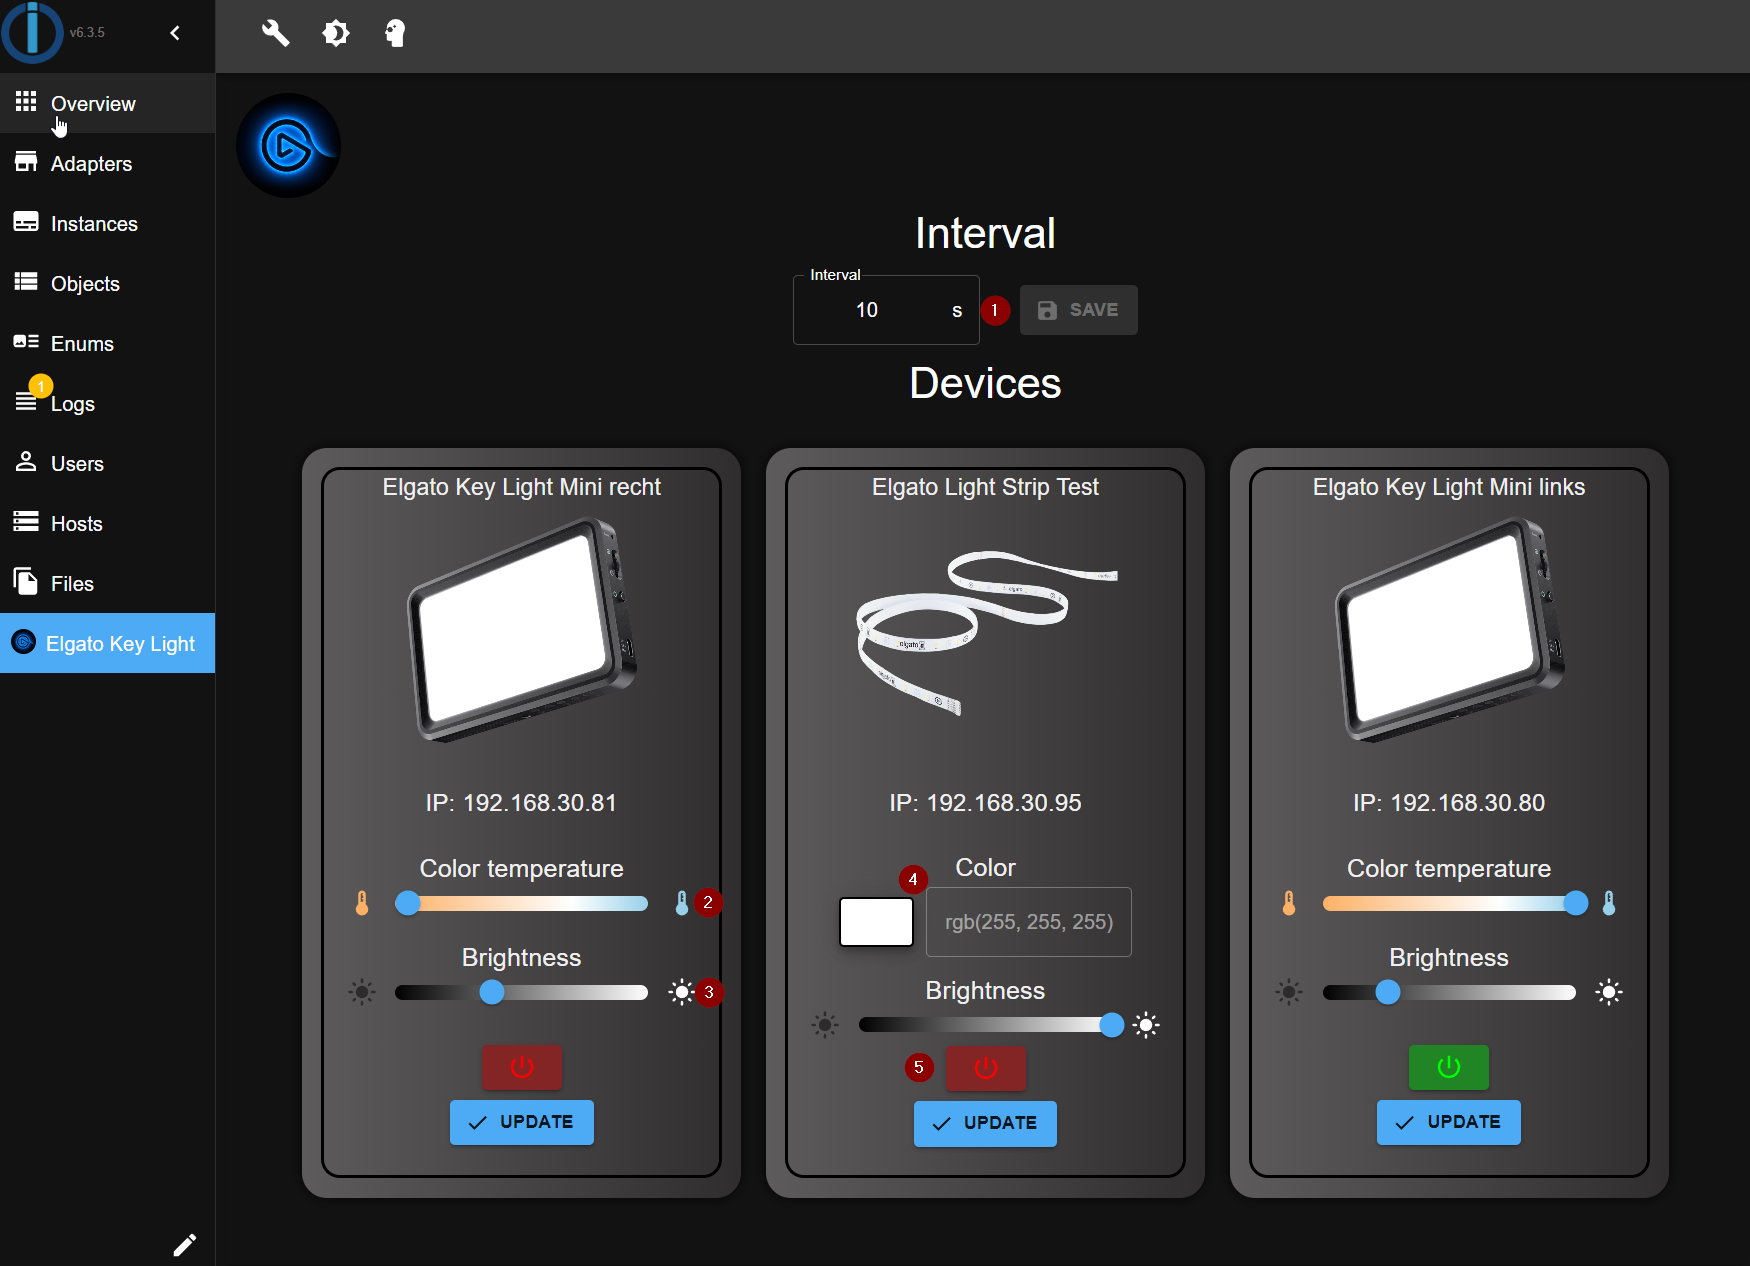
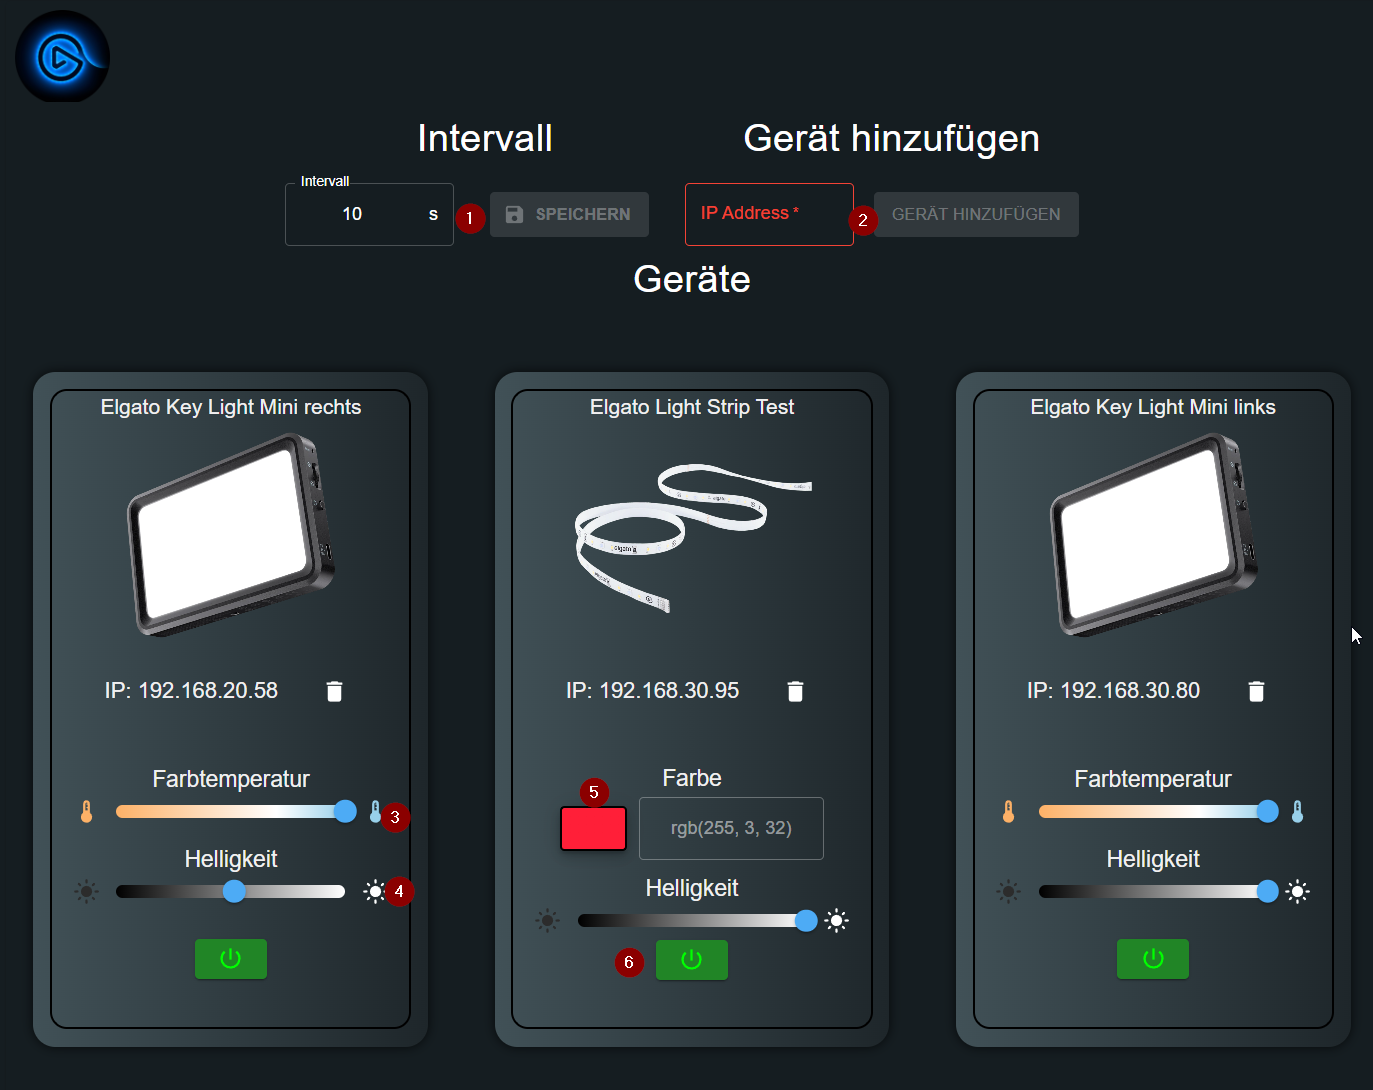
update docu and changelog

diff --git a/README.md b/README.md
@@ -32,10 +32,6 @@ The adapter supports the following functions:
   and [Elgato Key Light mini](https://www.elgato.com/de/key-light-mini) available)
 * Color ⇨ (only available with [Elgato Light Strip](https://www.elgato.com/de/light-strip))
 
-### How do I add a Key Light?
-**The devices are automatically detected through multicast (mDNS) and can then be controlled through the data points and UI.
-There is no provision for adding them manually at the moment.**
-
 
 ### Adapter UI
 A classic adapter UI under instances does not exist.\
@@ -45,14 +41,14 @@ A classic adapter UI under instances does not exist.\
 What can be done in the UI?
 * No. 1 set the polling interval for the adapter (default: 60 seconds).
   after changing the interval, the adapter must be restarted, this is done using the Save button.
-* No. 2 set the color temperature for all key lights (2900K to 7000K)
-* No. 3 set the brightness for all Key Lights (0% to 100%)
-* No. 4 set the color for from the Light Strips\
+* No. 2 add a new device to the adapter.
+* No. 3 set the color temperature for all key lights (2900K to 7000K)
+* No. 4 set the brightness for all Key Lights (0% to 100%)
+* No. 5 set the color for from the Light Strips\
   ![Adapter UI](admin/media/ColorPicker.png)
-* No. 5 switch the lights on and off
+* No. 6 switch the lights on and off
 
-After the changes of No. 2, No. 3 and No. 4 you have to click on the Refresh button to apply changes, the adapter will be
-by not restarting.
+**when changing No. 3, No. 4 and No. 5, the change will be executed after 1.5 seconds.**
 
 ### Warning
 **Please do not access the data points too often, otherwise the devices will not be accessible for a few seconds.**
@@ -85,6 +81,9 @@ The data points are divided into:
     Placeholder for the next version (at the beginning of the line):
     ### **WORK IN PROGRESS**
 -->
+### **WORK IN PROGRESS**
+* (xXBJXx) updated dependencies
+* (xXBJXx) Updating the UI to the new functions of the iobroker-react library
 ### 0.1.0 (2023-02-06)
 * (xXBJXx) removed the Bonjour search, because it did not work properly
 * (xXBJXx) Adding a delete function for devices
